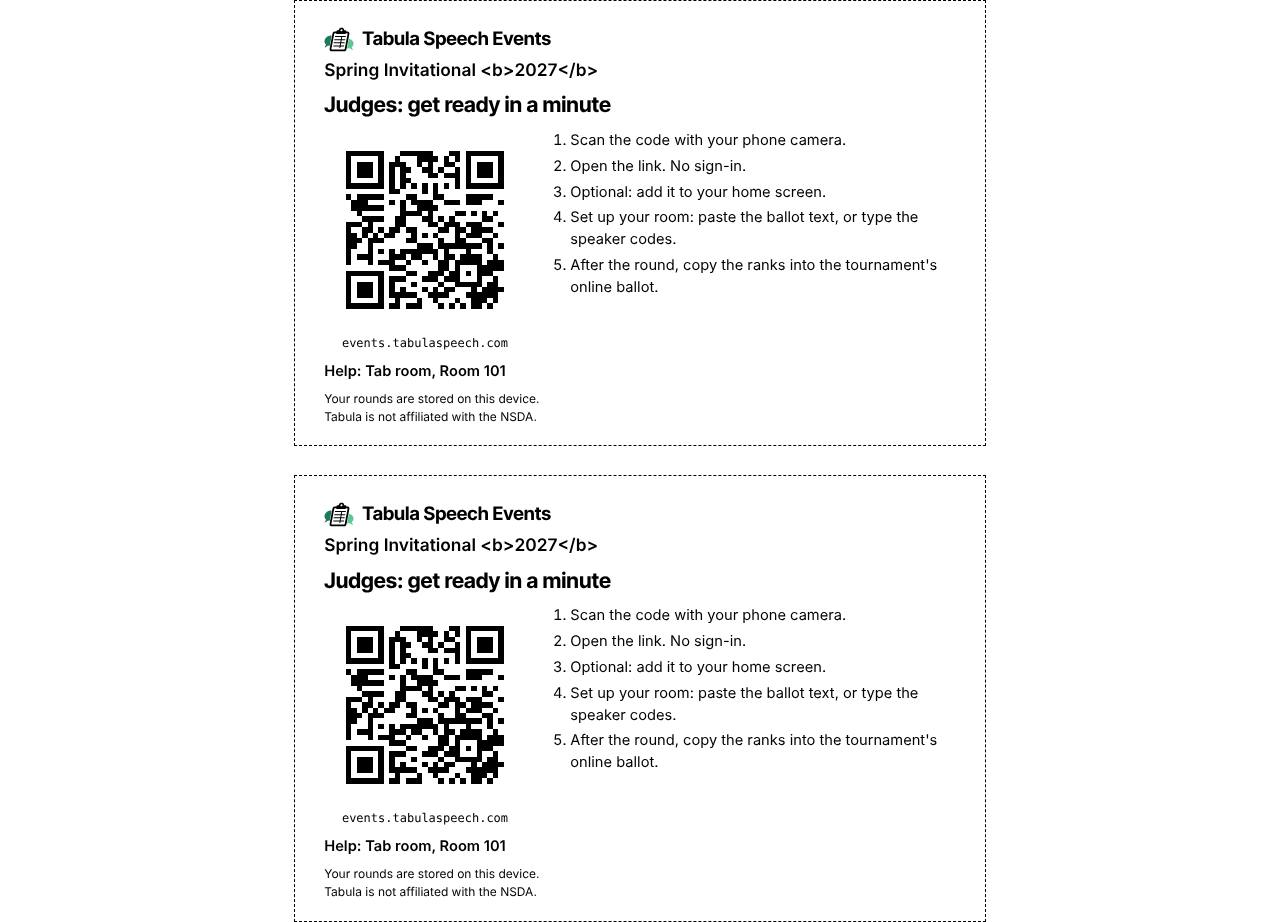
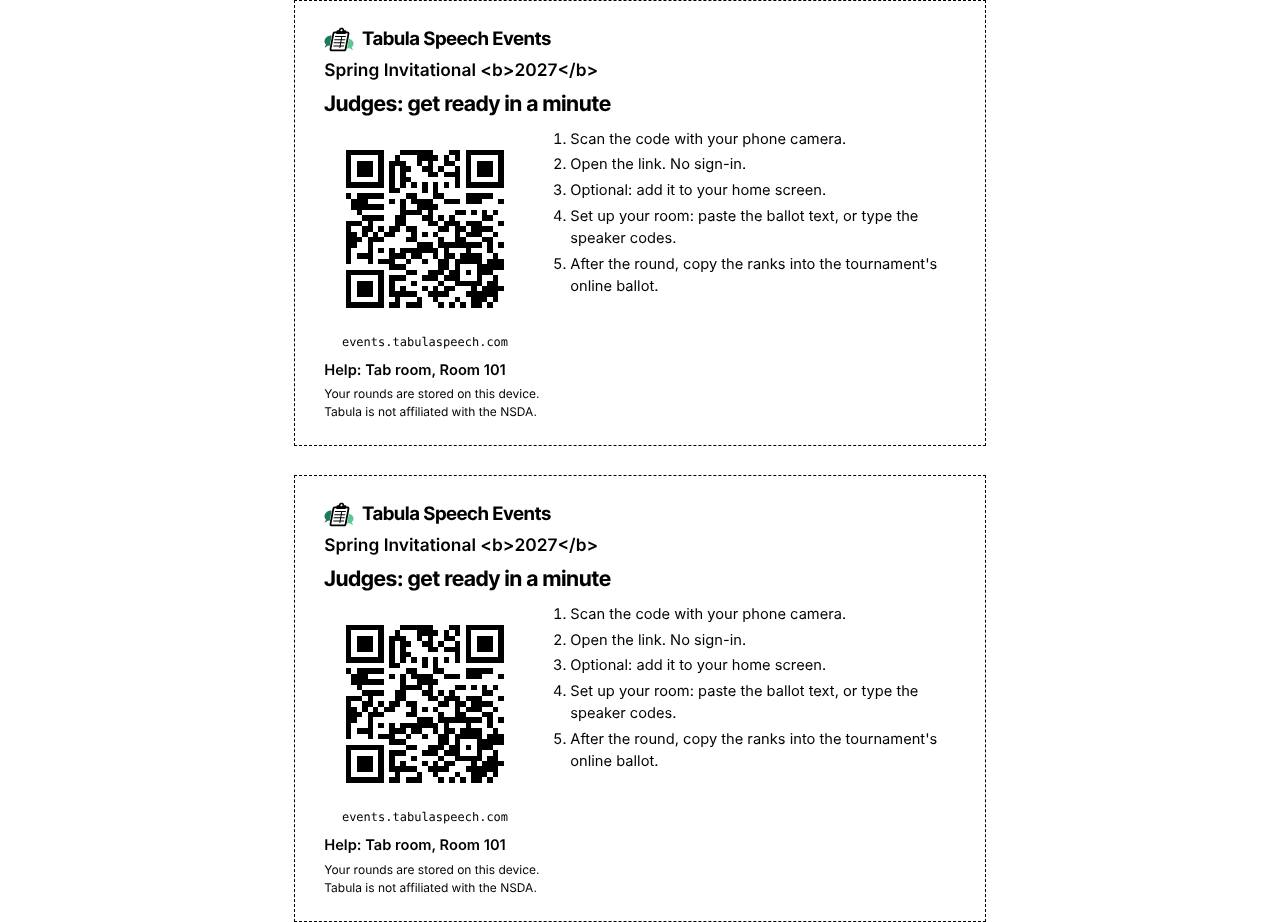
Speech Events judge card: keep the required lines on the two-card print
- Two cards: the typed lines stay on one line, and the footer sits at the
  bottom of the card, so long text never pushes the two lines off.
- kit.browser-test.mjs runs the page in Chromium: typing, layout switch,
  the QR code and URL unchanged, nothing saved, no outside request, and
  the print fit on Letter and A4 with the longest text.
- qr.test.mjs also checks both format copies and the version 7 bits.
- The printed link text is hidden from screen readers (the QR label says it).

Claude-Session: https://claude.ai/code/session_01Lq9dLFZcFCUcnKnmDQjBjM

diff --git a/events/kit/kit.css b/events/kit/kit.css
@@ -48,8 +48,11 @@
   .kc-steps { font-size: 14pt; min-width: 0; }
   .kc-help { font-size: 14pt; }
   .kc-foot { font-size: 10pt; margin-top: 0.3in; }
-  /* Two cards: each about 4.6 in tall, a dashed outline to cut along. */
-  .two-up .kit-card { border: 1px dashed #000; height: 4.65in; padding: 0.25in 0.3in; overflow: hidden; }
+  /* Two cards: each about 4.6 in tall, a dashed outline to cut along. The typed lines stay on one line (with "…"), so
+     long text never pushes the two required lines off the card. */
+  .two-up .kit-card { border: 1px dashed #000; height: 4.65in; padding: 0.25in 0.3in; display: flex; flex-direction: column; }
+  .two-up .kc-event, .two-up .kc-help { white-space: nowrap; overflow: hidden; text-overflow: ellipsis; overflow-wrap: normal; }
+  .two-up .kc-foot { margin-top: auto; padding-top: 0.06in; }
   .two-up .kc-head { font-size: 14pt; }
   .two-up .kc-mark { width: 30px; height: 25px; }
   .two-up .kc-event { font-size: 13pt; margin-top: 0.04in; }
@@ -60,5 +63,5 @@
   .two-up .kc-steps { font-size: 11pt; }
   .two-up .kc-steps li { margin-bottom: 0.04in; }
   .two-up .kc-help { font-size: 11pt; margin-top: 0.08in; }
-  .two-up .kc-foot { font-size: 9pt; margin-top: 0.08in; }
+  .two-up .kc-foot { font-size: 9pt; }
 }

diff --git a/events/sw-files.js b/events/sw-files.js
@@ -1,6 +1,6 @@
 // Generated by events/build-sw.mjs from the files the events page loads. Do not edit: run node events/build-sw.mjs.
 // The service worker (events/sw.js) reads this with importScripts. Paths are relative to events/sw.js.
-self.TABULA_EVENTS_RELEASE = 'a711ec45ca99126a';
+self.TABULA_EVENTS_RELEASE = '639a6a91a70dce7a';
 self.TABULA_EVENTS_FILES = [
   "../assets/fonts/InterTight-Italic-latin.woff2",
   "../assets/fonts/InterTight-latin.woff2",

diff --git a/events/kit/index.html b/events/kit/index.html
@@ -57,7 +57,7 @@
       <div class="kc-body">
         <figure class="kc-code">
           <div class="kc-qr" data-kit="qr"></div>
-          <figcaption class="kc-url">events.tabulaspeech.com</figcaption>
+          <figcaption class="kc-url" aria-hidden="true">events.tabulaspeech.com</figcaption>
         </figure>
         <ol class="kc-steps">
           <li>Scan the code with your phone camera.</li>
